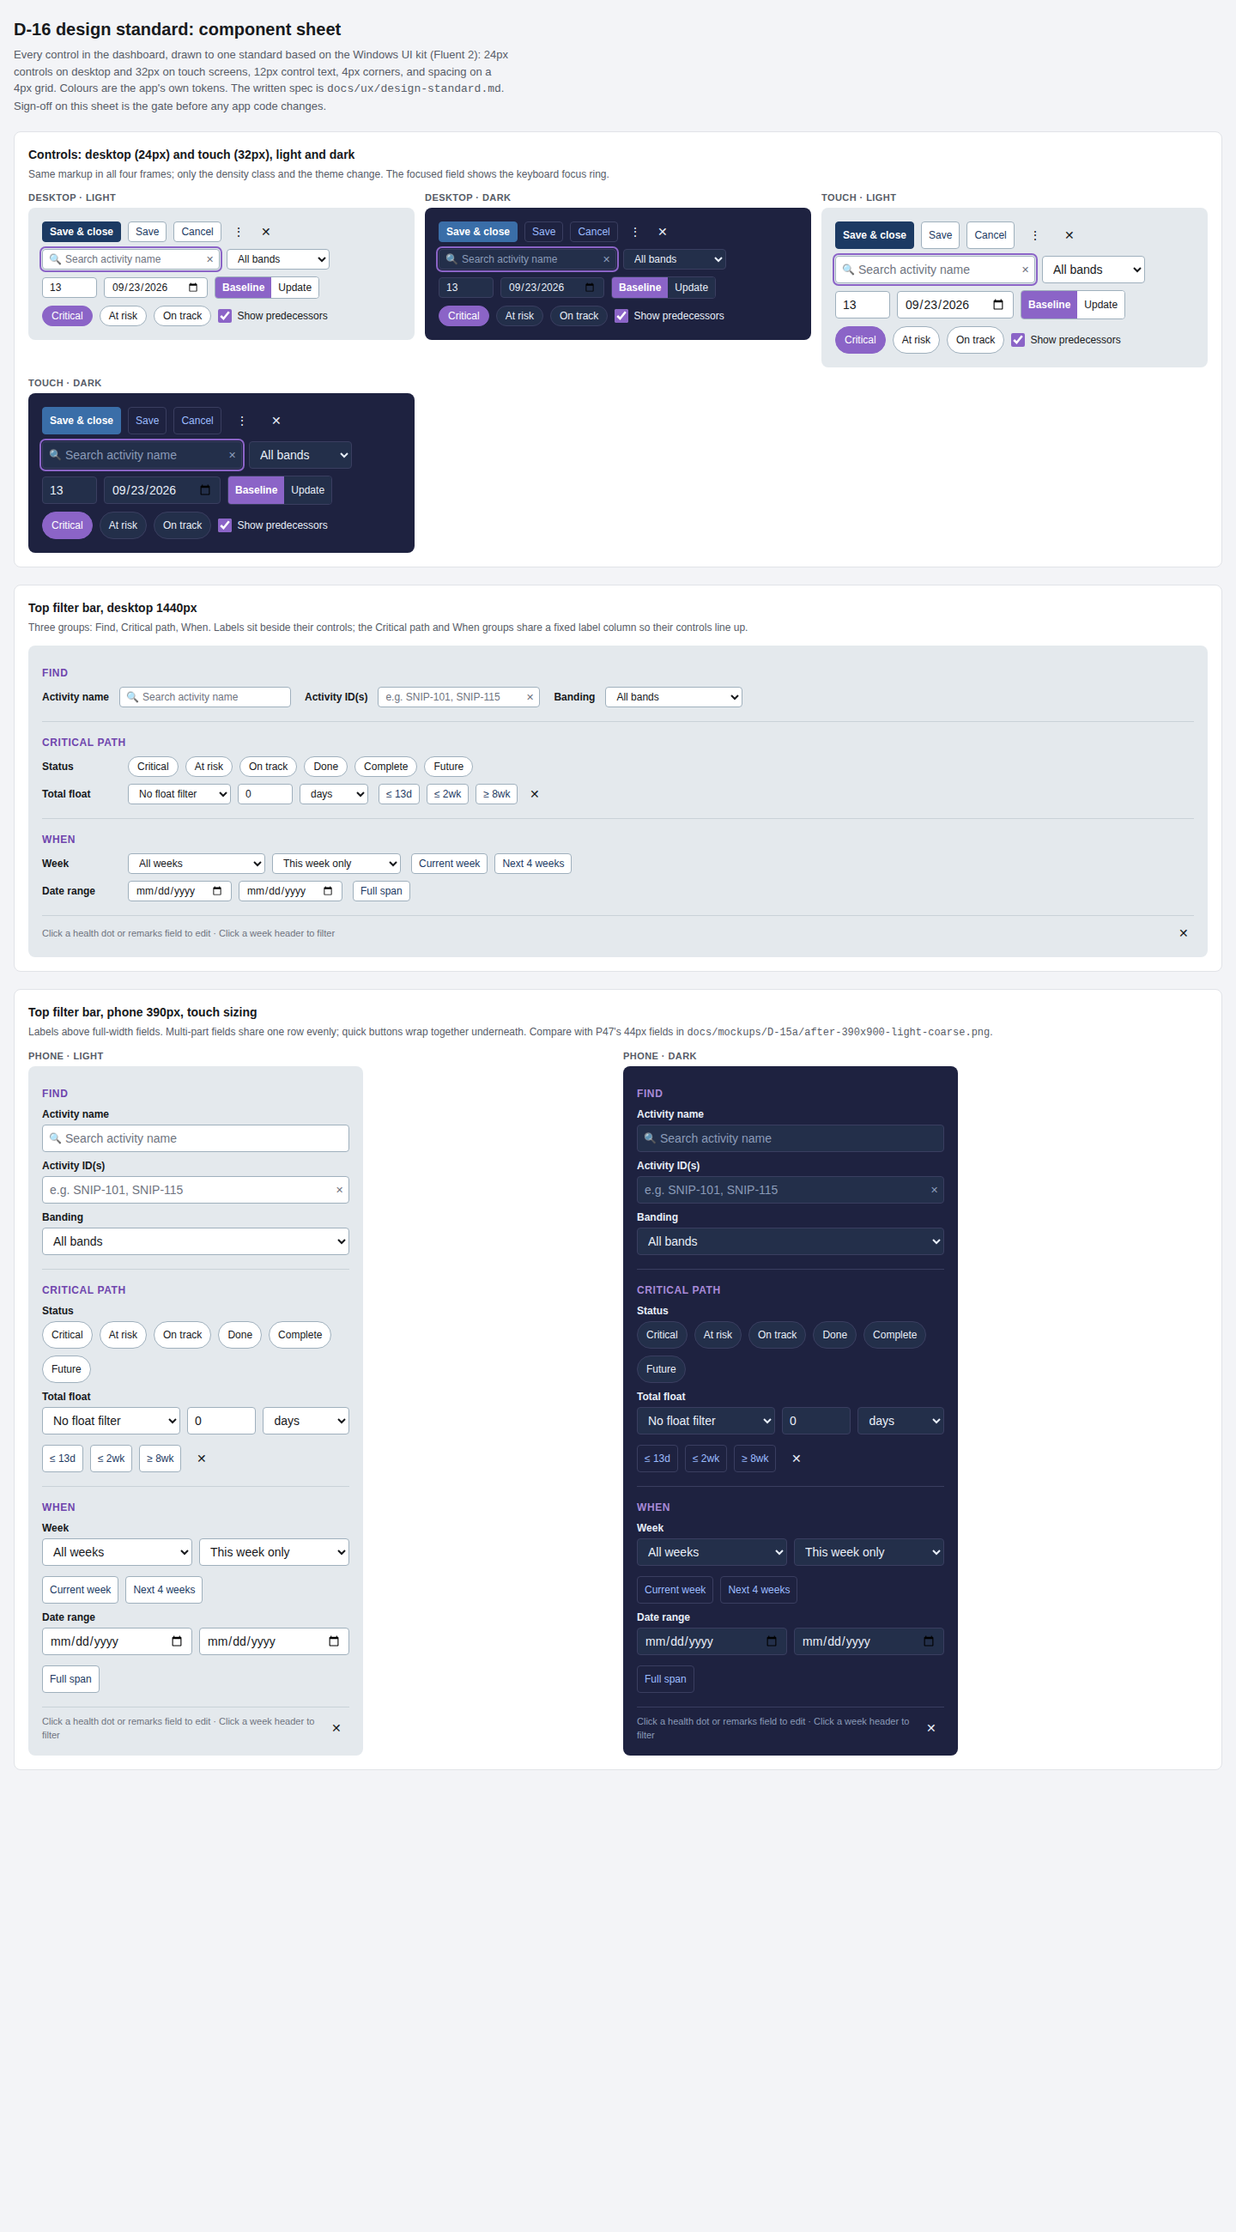
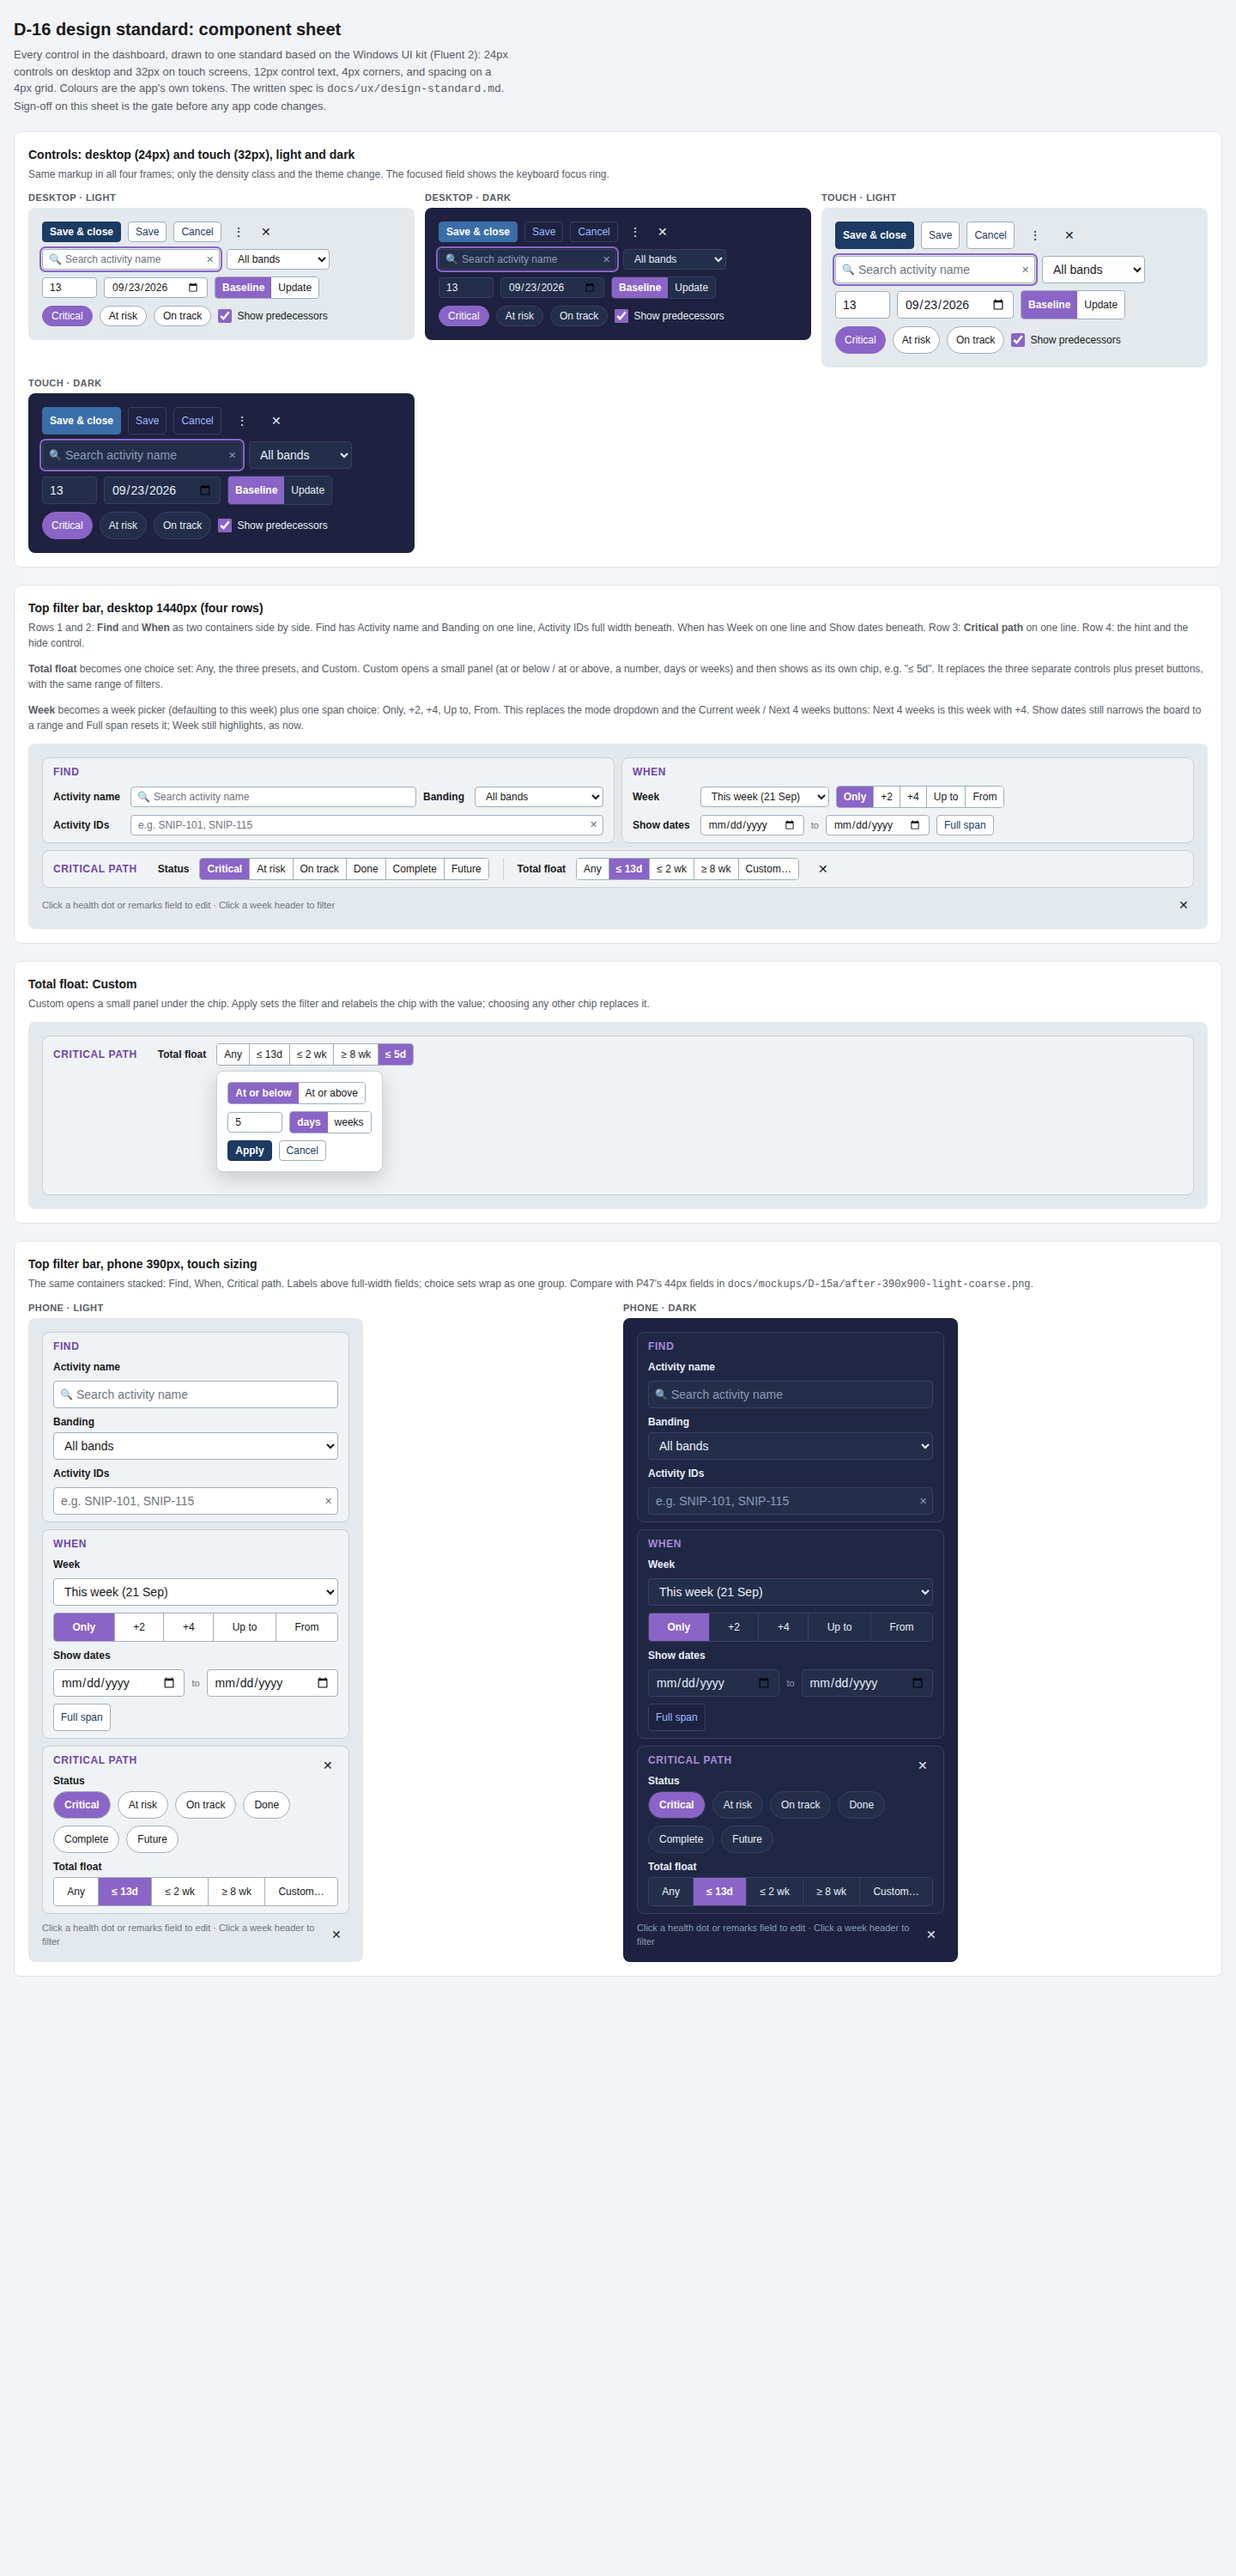
D-16a rev 2: four-row desktop filter bar, simpler Total float and Week
Desktop filter bar in the component sheet redrawn to Matt's layout: Find
and When as side-by-side containers (rows 1-2), Critical path on one line
(row 3), hint and hide control (row 4). Total float becomes one choice
set (Any, three presets, Custom with a small panel); Week becomes a week
picker plus one span choice (Only, +2, +4, Up to, From), replacing the
mode dropdown and the two quick buttons. Measured: four control rows,
Critical path on one line, 24px desktop and 32px touch throughout.

Claude-Session: https://claude.ai/code/session_01VvvMafGZ9E3v4dsCotnPSK

Changed region(s): [[0.0, 0.0, 1.0, 0.81], [0.6562, 0.6231, 0.7188, 0.6542]]

diff --git a/Projects/P6-Milestone-Dashboard/docs/mockups/D-16/component_sheet.html b/Projects/P6-Milestone-Dashboard/docs/mockups/D-16/component_sheet.html
@@ -62,30 +62,43 @@ body{background:var(--pg-bg);color:var(--pg-ink);font-family:'Segoe UI Variable 
 .ds-focus{outline:2px solid var(--color-accent-purple);outline-offset:1px}
 .ds :focus-visible{outline:2px solid var(--color-accent-purple);outline-offset:1px}
 
-/* Filter bar mock */
-.fb{display:flex;flex-direction:column;gap:0}
-.fb-grp{padding-block:var(--ctl-gap) var(--group-gap)}
-.fb-grp+.fb-grp{border-top:1px solid var(--color-filter-border);padding-top:var(--group-gap)}
-.fb-title{margin:0 0 var(--ctl-gap);font-size:var(--fs-caption);font-weight:600;letter-spacing:.05em;text-transform:uppercase;color:var(--color-accent-ink)}
-.fb-fields{display:flex;flex-wrap:wrap;gap:var(--ctl-gap) var(--group-gap);align-items:center}
-.fb-fld{display:flex;align-items:center;gap:var(--field-label-gap);min-width:0}
-.fb-fld>label{font-weight:600;white-space:nowrap}
-.fb-grp.stack .fb-fields{flex-direction:column;align-items:flex-start}
-.fb-grp.stack .fb-fld>label{width:88px}
-.fb-ctls{display:flex;flex-wrap:wrap;gap:var(--ctl-gap);align-items:center}
-.fb-foot{display:flex;align-items:center;justify-content:space-between;gap:var(--ctl-gap);border-top:1px solid var(--color-filter-border);padding-top:var(--ctl-gap);color:var(--color-text-muted);font-size:11px}
-/* Phone */
-.phone .fb-fields,.phone .fb-grp.stack .fb-fields{flex-direction:column;align-items:stretch}
-.phone .fb-fld{flex-direction:column;align-items:stretch;gap:var(--ctl-gap-tight)}
-.phone .fb-fld>label{width:auto}
-.phone .ds-fwrap,.phone .ds-field,.phone .ds-select{width:100%}
-.phone .fb-ctls{display:grid;grid-template-columns:repeat(auto-fit,minmax(0,1fr));gap:var(--ctl-gap)}
-.phone .fb-ctls .ds-select,.phone .fb-ctls .ds-field{min-width:0;width:100%!important}
-.phone .fb-ctls.chips{display:flex;flex-wrap:wrap}
-.phone .fb-ctls.float{grid-template-columns:minmax(0,1.6fr) minmax(0,.8fr) minmax(0,1fr)}
-.ds-chip{white-space:nowrap}
-.phone .fb-quick{display:flex;flex-wrap:wrap;gap:var(--ctl-gap);margin-top:var(--ctl-gap)}
-.fb-quick{display:inline-flex;flex-wrap:wrap;gap:var(--ctl-gap)}
+/* Filter bar mock (D-16a rev 2): max four rows on desktop */
+.fb{display:flex;flex-direction:column;gap:var(--ctl-gap)}
+.fb-top{display:flex;flex-wrap:wrap;gap:var(--ctl-gap)}
+.fb-box{border:1px solid var(--color-filter-border);border-radius:var(--radius-overlay);background:color-mix(in srgb,var(--color-bg-elevated) 45%,transparent);padding:var(--ctl-gap) 12px;display:grid;grid-template-columns:auto 1fr;gap:var(--ctl-gap) var(--field-label-gap);align-items:center;min-width:0}
+.fb-box.find{flex:1 1 520px}
+.fb-box.when{flex:1 1 520px}
+.fb-box.crit{display:flex;flex-wrap:wrap;align-items:center;gap:var(--ctl-gap) var(--group-gap)}
+.fb-title{grid-column:1/-1;margin:0;font-size:var(--fs-caption);font-weight:600;letter-spacing:.05em;text-transform:uppercase;color:var(--color-accent-ink)}
+.fb-box.crit .fb-title{margin-right:var(--ctl-gap)}
+.fb-box label{font-weight:600;white-space:nowrap}
+.fb-line{display:flex;flex-wrap:wrap;gap:var(--ctl-gap);align-items:center;min-width:0}
+.fb-line .grow{flex:1 1 160px;min-width:0}
+.fb-line .grow .ds-field,.fb-line .grow.ds-field,.fb-line .grow.ds-select{width:100%}
+.fb-inline{display:flex;align-items:center;gap:var(--field-label-gap)}
+.fb-sep{width:1px;align-self:stretch;background:var(--color-filter-border)}
+.ds-seg.chips button{border-right:1px solid var(--color-btn-secondary-outline)}
+.ds-seg.chips button:last-child{border-right:0}
+.fb-note{font-size:11px;color:var(--color-text-muted)}
+.fb-foot{display:flex;align-items:center;justify-content:space-between;gap:var(--ctl-gap);color:var(--color-text-muted);font-size:11px}
+.pop{position:relative;display:inline-block}
+.pop-card{position:absolute;left:0;top:calc(100% + 6px);z-index:2;border:1px solid var(--color-filter-border);border-radius:var(--radius-overlay);background:var(--color-bg-elevated);padding:12px;display:flex;flex-direction:column;gap:var(--ctl-gap);box-shadow:0 8px 24px rgba(0,0,0,.18);width:max-content}
+/* Phone: containers stack, labels above, fields full width */
+.phone .fb-box{display:flex;flex-direction:column;align-items:stretch}
+.phone .fb-box.crit{display:flex;flex-direction:column;align-items:stretch}
+.phone .fb-inline{flex-direction:column;align-items:stretch;gap:var(--ctl-gap-tight)}
+.phone .fb-sep{display:none}
+.phone .ds-fwrap,.phone .ds-field,.phone .ds-select{width:100%;min-width:0}
+.phone .ds-seg{display:flex;flex-wrap:wrap}
+.phone .ds-seg button{flex:1 1 auto}
+.phone .fb-line{flex-direction:column;align-items:stretch}
+.phone .fb-line .grow{flex:0 0 auto}
+.phone .fb-line.dates{display:grid;grid-template-columns:minmax(0,1fr) auto minmax(0,1fr);align-items:center}
+.phone .fb-line.dates .ds-btn{grid-column:1/-1;justify-self:start}
+.phone .ds-seg.chips.pills{border:0;gap:var(--ctl-gap);background:transparent}
+.phone .ds-seg.chips.pills button{flex:0 0 auto;border:1px solid var(--color-btn-secondary-outline);border-radius:999px;padding:0 12px}
+.phone .fb-box.crit .crit-clear{position:absolute;top:6px;right:8px}
+.fb-box.crit{position:relative}
 </style>
 
 <div class="wrap">
@@ -106,14 +119,22 @@ body{background:var(--pg-bg);color:var(--pg-ink);font-family:'Segoe UI Variable 
 </section>
 
 <section class="pg-sect">
-  <h2>Top filter bar, desktop 1440px</h2>
-  <p>Three groups: Find, Critical path, When. Labels sit beside their controls; the Critical path and When groups share a fixed label column so their controls line up.</p>
+  <h2>Top filter bar, desktop 1440px (four rows)</h2>
+  <p>Rows 1 and 2: <b>Find</b> and <b>When</b> as two containers side by side. Find has Activity name and Banding on one line, Activity IDs full width beneath. When has Week on one line and Show dates beneath. Row 3: <b>Critical path</b> on one line. Row 4: the hint and the hide control.</p>
+  <p><b>Total float</b> becomes one choice set: Any, the three presets, and Custom. Custom opens a small panel (at or below / at or above, a number, days or weeks) and then shows as its own chip, e.g. "&#8804; 5d". It replaces the three separate controls plus preset buttons, with the same range of filters.</p>
+  <p><b>Week</b> becomes a week picker (defaulting to this week) plus one span choice: Only, +2, +4, Up to, From. This replaces the mode dropdown and the Current week / Next 4 weeks buttons: Next 4 weeks is this week with +4. Show dates still narrows the board to a range and Full span resets it; Week still highlights, as now.</p>
   <div class="pg-scroll"><div style="min-width:1100px"><div class="ds t-light fb" id="fb-desk"></div></div></div>
 </section>
 
 <section class="pg-sect">
+  <h2>Total float: Custom</h2>
+  <p>Custom opens a small panel under the chip. Apply sets the filter and relabels the chip with the value; choosing any other chip replaces it.</p>
+  <div class="pg-scroll"><div style="min-width:760px"><div class="ds t-light fb" id="fb-custom"></div></div></div>
+</section>
+
+<section class="pg-sect">
   <h2>Top filter bar, phone 390px, touch sizing</h2>
-  <p>Labels above full-width fields. Multi-part fields share one row evenly; quick buttons wrap together underneath. Compare with P47's 44px fields in <code>docs/mockups/D-15a/after-390x900-light-coarse.png</code>.</p>
+  <p>The same containers stacked: Find, When, Critical path. Labels above full-width fields; choice sets wrap as one group. Compare with P47's 44px fields in <code>docs/mockups/D-15a/after-390x900-light-coarse.png</code>.</p>
   <div class="pg-grid">
     <div><p class="pg-cap">Phone · light</p><div class="pg-scroll"><div style="width:390px"><div class="ds touch t-light fb phone" id="fb-phone-light"></div></div></div></div>
     <div><p class="pg-cap">Phone · dark</p><div class="pg-scroll"><div style="width:390px"><div class="ds touch t-dark fb phone" id="fb-phone-dark"></div></div></div></div>
@@ -147,29 +168,45 @@ body{background:var(--pg-bg);color:var(--pg-ink);font-family:'Segoe UI Variable 
 </template>
 
 <template id="tpl-fb">
-  <div class="fb-grp">
-    <p class="fb-title">Find</p>
-    <div class="fb-fields">
-      <div class="fb-fld"><label>Activity name</label><span class="ds-fwrap has-lead"><span class="lead" aria-hidden="true">&#128269;</span><input class="ds-field" placeholder="Search activity name" style="min-width:200px"></span></div>
-      <div class="fb-fld"><label>Activity ID(s)</label><span class="ds-fwrap has-clr"><input class="ds-field" placeholder="e.g. SNIP-101, SNIP-115" style="min-width:180px"><button class="clr" aria-label="Clear">&#10005;</button></span></div>
-      <div class="fb-fld"><label>Banding</label><select class="ds-select" style="min-width:160px"><option>All bands</option></select></div>
+  <div class="fb-top">
+    <div class="fb-box find">
+      <p class="fb-title">Find</p>
+      <label>Activity name</label>
+      <div class="fb-line"><span class="ds-fwrap has-lead grow"><span class="lead" aria-hidden="true">&#128269;</span><input class="ds-field" placeholder="Search activity name"></span>
+        <span class="fb-inline"><label>Banding</label><select class="ds-select" style="min-width:150px"><option>All bands</option></select></span></div>
+      <label>Activity IDs</label>
+      <div class="fb-line"><span class="ds-fwrap has-clr grow"><input class="ds-field" placeholder="e.g. SNIP-101, SNIP-115"><button class="clr" aria-label="Clear">&#10005;</button></span></div>
+    </div>
+    <div class="fb-box when">
+      <p class="fb-title">When</p>
+      <label>Week</label>
+      <div class="fb-line"><select class="ds-select" style="min-width:150px"><option>This week (21 Sep)</option><option>All weeks</option></select>
+        <span class="ds-seg chips" role="group" aria-label="Week span"><button aria-pressed="true">Only</button><button aria-pressed="false">+2</button><button aria-pressed="false">+4</button><button aria-pressed="false">Up to</button><button aria-pressed="false">From</button></span></div>
+      <label>Show dates</label>
+      <div class="fb-line dates"><input class="ds-field" type="date" aria-label="From"><span class="fb-note">to</span><input class="ds-field" type="date" aria-label="To"><button class="ds-btn">Full span</button></div>
     </div>
   </div>
-  <div class="fb-grp stack">
+  <div class="fb-box crit">
     <p class="fb-title">Critical path</p>
-    <div class="fb-fields">
-      <div class="fb-fld"><label>Status</label><div class="fb-ctls chips"><button class="ds-chip" aria-pressed="false">Critical</button><button class="ds-chip" aria-pressed="false">At risk</button><button class="ds-chip" aria-pressed="false">On track</button><button class="ds-chip" aria-pressed="false">Done</button><button class="ds-chip" aria-pressed="false">Complete</button><button class="ds-chip" aria-pressed="false">Future</button></div></div>
-      <div class="fb-fld"><label>Total float</label><div class="fb-ctls float"><select class="ds-select"><option>No float filter</option></select><input class="ds-field" type="number" value="0" style="min-width:64px;width:64px"><select class="ds-select" style="min-width:80px"><option>days</option></select></div><div class="fb-quick"><button class="ds-btn">&#8804; 13d</button><button class="ds-btn">&#8804; 2wk</button><button class="ds-btn">&#8805; 8wk</button><button class="ds-ico" aria-label="Clear the critical path filters" title="Clear the critical path filters">&#10005;</button></div></div>
-    </div>
+    <span class="fb-inline"><label>Status</label><span class="ds-seg chips pills" role="group" aria-label="Status"><button aria-pressed="true">Critical</button><button aria-pressed="false">At risk</button><button aria-pressed="false">On track</button><button aria-pressed="false">Done</button><button aria-pressed="false">Complete</button><button aria-pressed="false">Future</button></span></span>
+    <span class="fb-sep" aria-hidden="true"></span>
+    <span class="fb-inline"><label>Total float</label><span class="ds-seg chips" role="group" aria-label="Total float"><button aria-pressed="false">Any</button><button aria-pressed="true">&#8804; 13d</button><button aria-pressed="false">&#8804; 2 wk</button><button aria-pressed="false">&#8805; 8 wk</button><button aria-pressed="false">Custom&#8230;</button></span></span>
+    <button class="ds-ico crit-clear" aria-label="Clear the critical path filters" title="Clear the critical path filters">&#10005;</button>
   </div>
-  <div class="fb-grp stack">
-    <p class="fb-title">When</p>
-    <div class="fb-fields">
-      <div class="fb-fld"><label>Week</label><div class="fb-ctls"><select class="ds-select" style="min-width:160px"><option>All weeks</option></select><select class="ds-select" style="min-width:150px"><option>This week only</option></select></div><div class="fb-quick"><button class="ds-btn">Current week</button><button class="ds-btn">Next 4 weeks</button></div></div>
-      <div class="fb-fld"><label>Date range</label><div class="fb-ctls"><input class="ds-field" type="date"><input class="ds-field" type="date"></div><div class="fb-quick"><button class="ds-btn">Full span</button></div></div>
-    </div>
+  <div class="fb-foot"><span>Click a health dot or remarks field to edit &#183; Click a week header to filter</span><button class="ds-ico" aria-label="Hide filters" title="Hide filters">&#10005;</button></div>
+</template>
+
+<template id="tpl-custom">
+  <div class="fb-box crit" style="padding-bottom:150px">
+    <p class="fb-title">Critical path</p>
+    <span class="fb-inline"><label>Total float</label>
+      <span class="pop"><span class="ds-seg chips" role="group" aria-label="Total float"><button aria-pressed="false">Any</button><button aria-pressed="false">&#8804; 13d</button><button aria-pressed="false">&#8804; 2 wk</button><button aria-pressed="false">&#8805; 8 wk</button><button aria-pressed="true">&#8804; 5d</button></span>
+        <span class="pop-card" role="dialog" aria-label="Custom float">
+          <span class="fb-line"><span class="ds-seg" role="group" aria-label="Comparison"><button aria-pressed="true">At or below</button><button aria-pressed="false">At or above</button></span></span>
+          <span class="fb-line"><input class="ds-field" type="number" value="5" style="min-width:64px;width:64px"><span class="ds-seg" role="group" aria-label="Unit"><button aria-pressed="true">days</button><button aria-pressed="false">weeks</button></span></span>
+          <span class="fb-line"><button class="ds-btn primary">Apply</button><button class="ds-btn">Cancel</button></span>
+        </span></span></span>
   </div>
-  <div class="fb-foot"><span>Click a health dot or remarks field to edit · Click a week header to filter</span><button class="ds-ico" aria-label="Hide filters" title="Hide filters">&#10005;</button></div>
 </template>
 
 <script>
@@ -177,5 +214,6 @@ body{background:var(--pg-bg);color:var(--pg-ink);font-family:'Segoe UI Variable 
   function fill(id,tpl){var el=document.getElementById(id);if(el)el.appendChild(document.getElementById(tpl).content.cloneNode(true));}
   ['ctl-desk-light','ctl-desk-dark','ctl-touch-light','ctl-touch-dark'].forEach(function(id){fill(id,'tpl-ctl');});
   ['fb-desk','fb-phone-light','fb-phone-dark'].forEach(function(id){fill(id,'tpl-fb');});
+  fill('fb-custom','tpl-custom');
 })();
 </script>
